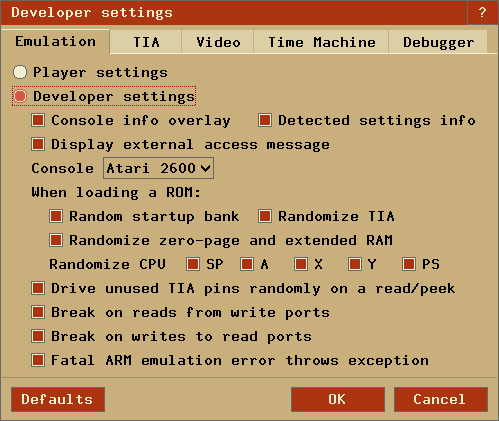
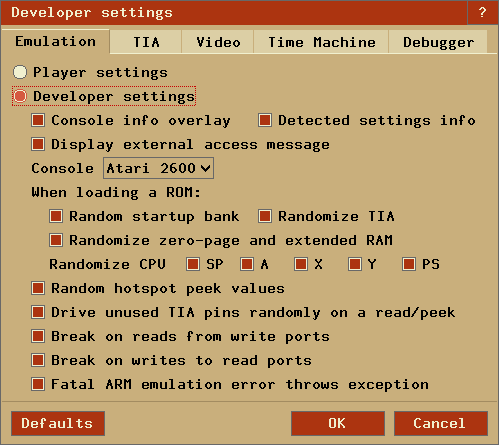
made random hotspots peeks a developer option added check for duplicate hotkeys

Changed region(s): [[0.0, 0.0, 1.0, 0.9881]]

diff --git a/docs/index.html b/docs/index.html
@@ -3641,6 +3641,9 @@
       <td><pre>-&lt;plr.|dev.&gt;cpurandom &lt;S,A,X,Y,P&gt;</pre></td>
       <td>On reset, randomize the content of the specified CPU registers.</td>
     </tr><tr>
+      <td><pre>-dev.hsrandom &lt;1|0&gt;</pre></td>
+      <td>When this option is enabled, peeks to hotspots return semi-random values.</td>
+    </tr><tr>
       <td><pre>-dev.tiadriven &lt;1|0&gt;</pre></td>
       <td>Set unused TIA pins to be randomly driven high or low on a read/peek.
           If disabled, use the last databus value for those pins instead.</td>
@@ -4566,6 +4569,11 @@
             <td>Randomize CPU</td>
             <td>When loading a ROM, randomize the content of the specified CPU registers</td>
             <td>-plr.cpurandom<br/>-dev.cpurandom</td>
+          </tr>
+          <tr>
+            <td>Random hotspot peek values</td>
+            <td>Peeks to hotspots return semi-random values</td>
+            <td>-dev.hsrandom</td>
           </tr>
           <tr>
             <td>Drive unused TIA pins ...</td>
